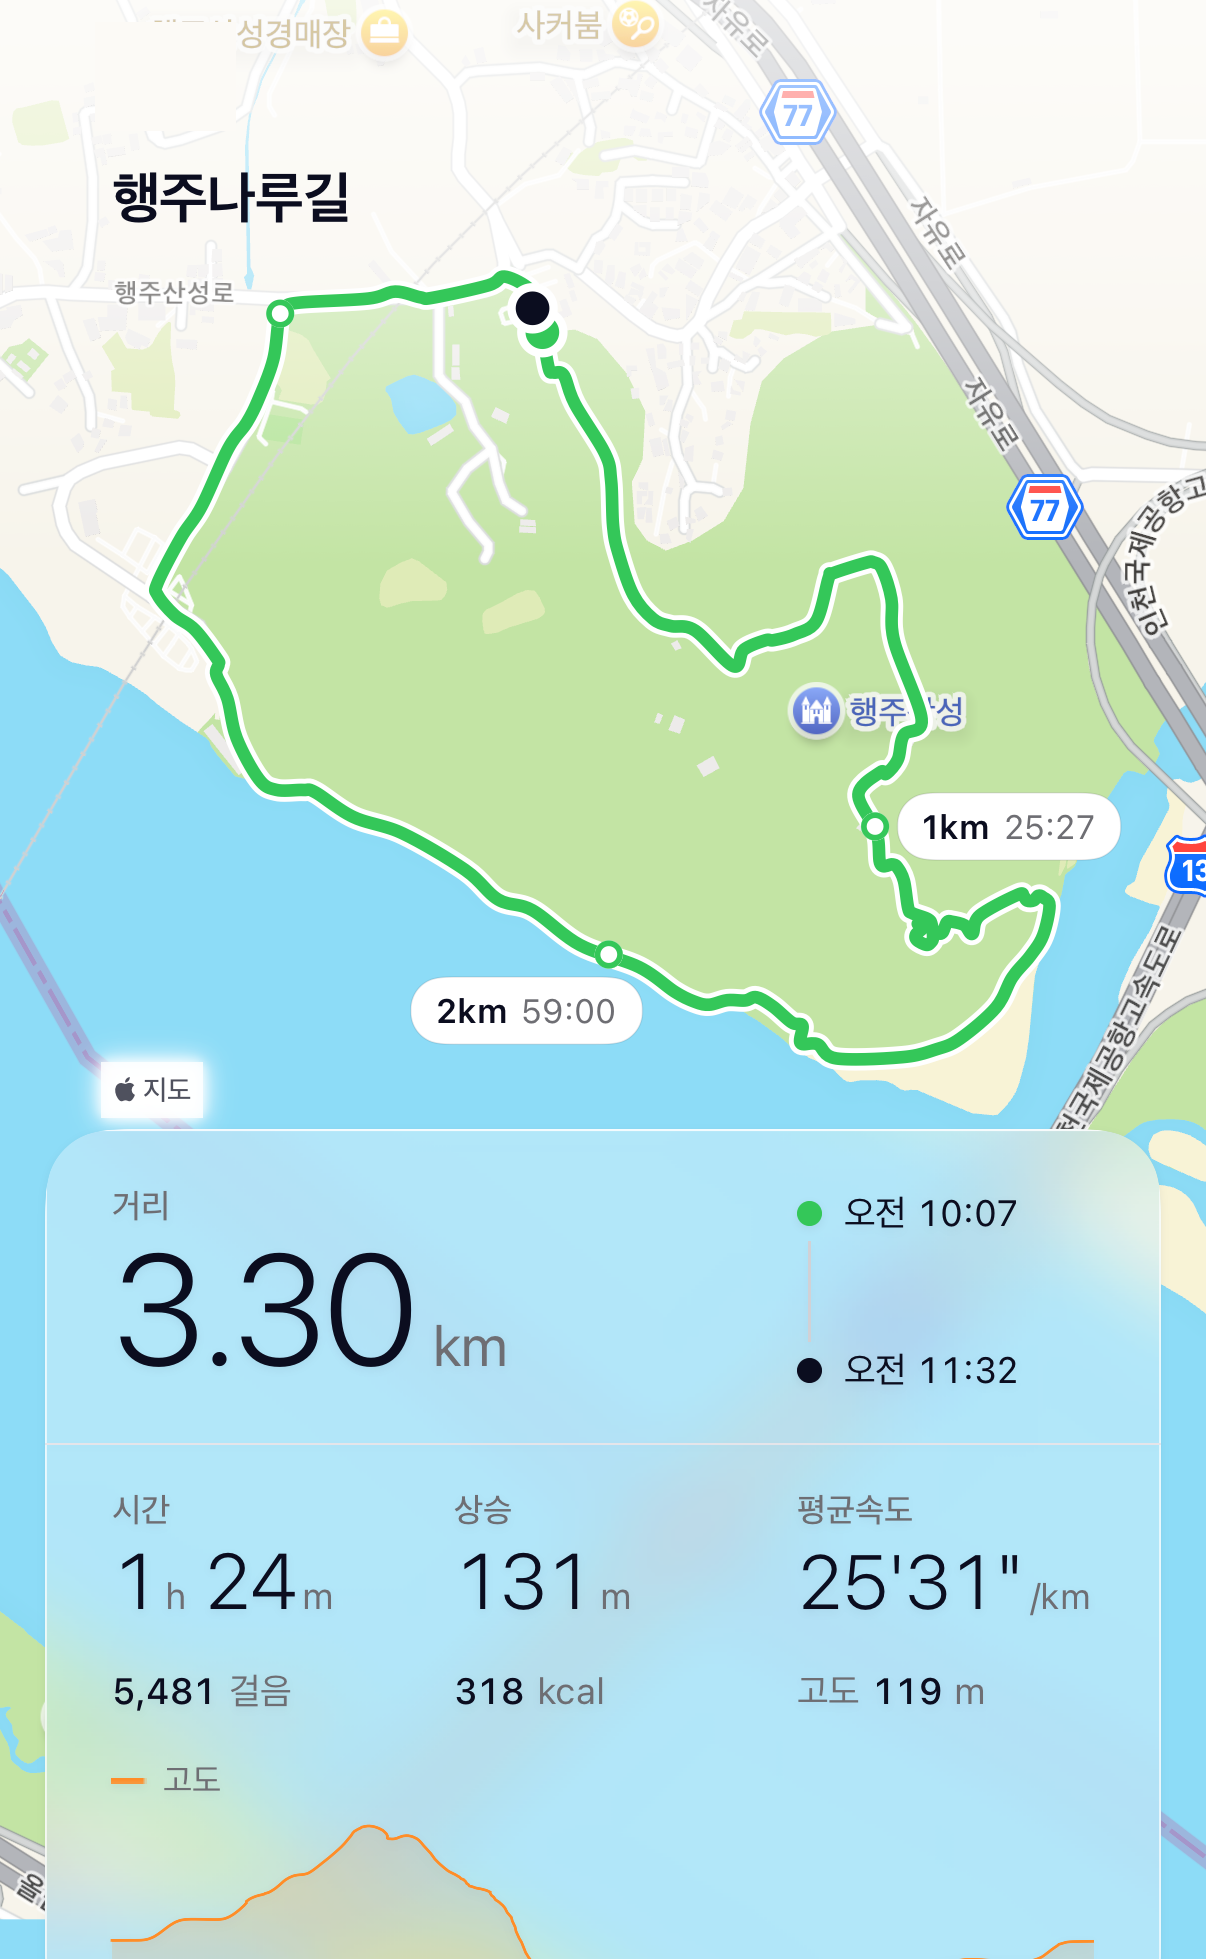
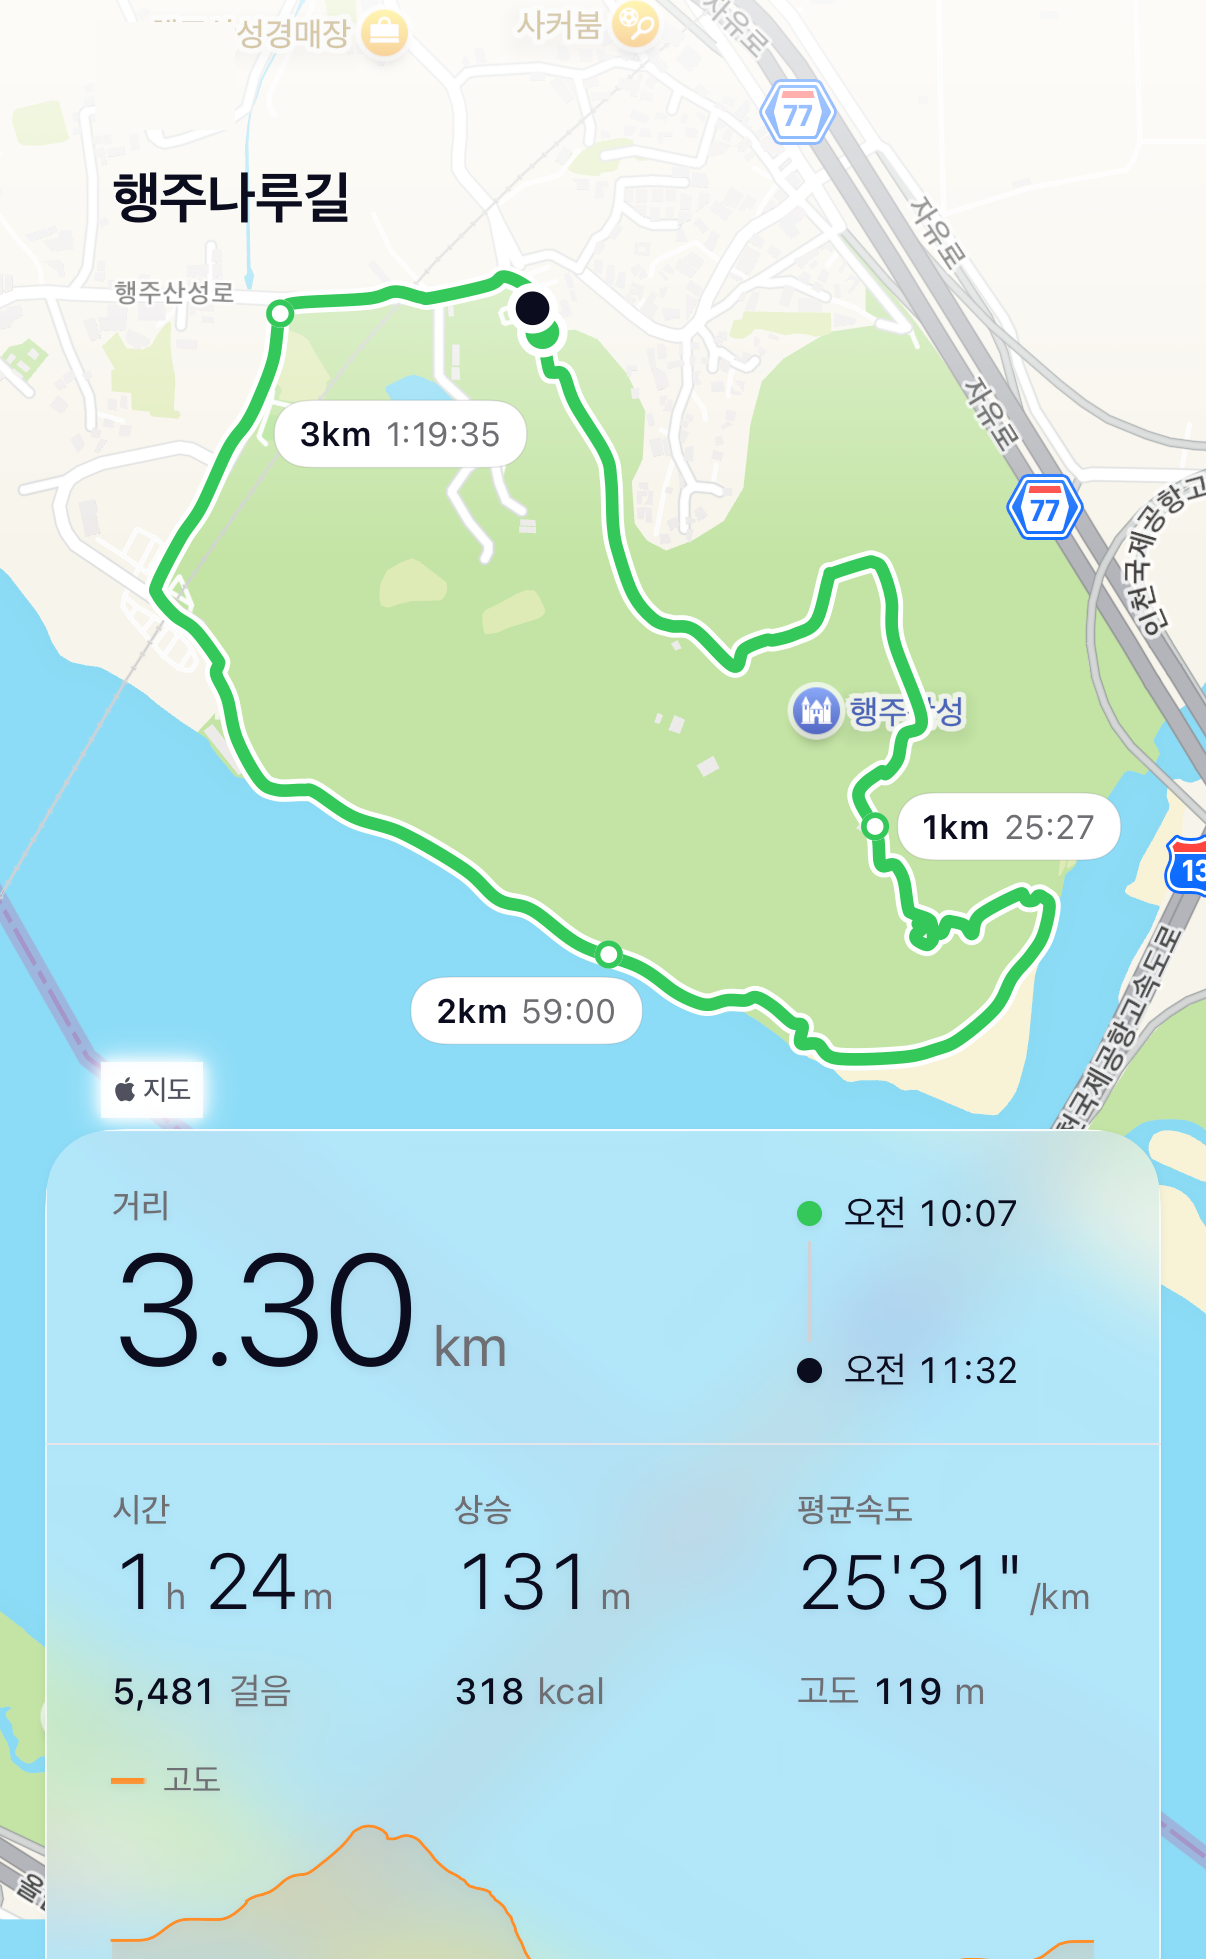
fix(ios): hangju Simple 3km endpoint clearance + seam zoom captures
Drop ownDist+ownMargin against endpoints in placeSummary (Android aloneOk
parity) so 행주나루 3km keeps the L-bend capsule. Refresh pager preview
thumbs; tighten UITest detail zoomIn span for zoom± evidence.

Changed region(s): [[0.2148, 0.1868, 0.4295, 0.2491]]

diff --git a/sansanTests/ShareSummaryTokensTests.swift b/sansanTests/ShareSummaryTokensTests.swift
@@ -372,4 +372,78 @@ final class ShareSummaryTokensTests: XCTestCase {
     func testMaxMemoLengthIs200() {
         XCTAssertEqual(SavedHikingSession.maxMemoLength, 200)
     }
+
+    /// 행주나루길 loop: 3km sits near start/end. Endpoint ownMargin must not drop it
+    /// (Android aloneOk hard-clears endpoints only) — Simple Grey/Color parity.
+    func testHangjunaruPlaceSummaryKeepsThreeKmNearEndpoints() throws {
+        let fixture = URL(fileURLWithPath:
+            "/Users/jeongwook/Documents/sansan-보관/작업복사본-iOS/sansan-ios-detail-label-zoom-e75c/sansan/Resources/uitest-fixtures/hangjunaru.json"
+        )
+        let data = try Data(contentsOf: fixture)
+        let decoder = JSONDecoder()
+        decoder.dateDecodingStrategy = .iso8601
+        let record = try decoder.decode(SavedHikingSession.self, from: data)
+        let coords = record.session.points.map {
+            CLLocationCoordinate2D(latitude: $0.latitude, longitude: $0.longitude)
+        }
+        XCTAssertGreaterThanOrEqual(coords.count, 2)
+
+        let canvas = ShareSummaryTokens.canvasSize(widthPoints: 402, pixelScale: 1)
+        let memoLines = 0
+        let region = HikingMapRegion.fitting(
+            coordinates: coords,
+            viewSize: canvas,
+            insetTop: ShareSummaryTokens.mapTopInset(memoLineCount: memoLines),
+            insetLeft: ShareSummaryTokens.mapRouteSideInset,
+            insetBottom: ShareSummaryTokens.mapBottomInset,
+            insetRight: ShareSummaryTokens.mapRouteSideInset,
+            verticalAlign: .top
+        )
+        func project(_ c: CLLocationCoordinate2D) -> CGPoint {
+            HikingMapRegion.point(for: c, in: region, canvasSize: canvas)
+        }
+
+        let markers = HikingSessionMetrics.kilometerMarkerPlacements(from: record.session.points)
+        let times = HikingSessionMetrics.kilometerArrivalElapsedLabels(
+            from: record.session.points,
+            startedAt: record.session.effectiveStartedAt,
+            segmentBreaks: record.session.segmentBreaks
+        )
+        let requests: [RouteKilometerLabelRequest] = markers.map { marker in
+            RouteKilometerLabelRequest(
+                kilometer: marker.kilometer,
+                distanceLabel: marker.labelText,
+                timeLabel: times[marker.kilometer],
+                routePoint: project(marker.coordinate),
+                preferredLeadingSide: marker.placesLabelOnLeadingSide
+            )
+        }
+        XCTAssertEqual(Set(requests.map(\.kilometer)), Set([1, 2, 3]))
+
+        var endpoints: [CGPoint] = [project(coords[0])]
+        if coords.count > 1 { endpoints.append(project(coords[coords.count - 1])) }
+        let poly = coords.map(project)
+        let contentScale = RouteKilometerMarkerMetrics.labelContentScale(forWidth: canvas.width)
+        let titleBottom = ShareSummaryTokens.headerBottom(memoLineCount: memoLines) * contentScale
+
+        let previousBudget = RouteKilometerLabelPlacement.softTimeBudgetSeconds
+        RouteKilometerLabelPlacement.softTimeBudgetSeconds = 2.0
+        defer { RouteKilometerLabelPlacement.softTimeBudgetSeconds = previousBudget }
+
+        let placed = RouteKilometerLabelPlacement.placeSummary(
+            markers: requests,
+            endpointPoints: endpoints,
+            routePolyline: poly,
+            contentScale: contentScale,
+            imageSize: canvas,
+            sideInset: ShareSummaryTokens.kmLabelBoundsInset * contentScale,
+            pathHalfWidth: ShareSummaryTokens.routeCasing / 2,
+            titleBlockBottom: titleBottom
+        )
+        XCTAssertEqual(
+            Set(placed.shifts.keys),
+            Set([1, 2, 3]),
+            "hangjunaru Simple must keep 3km near loop endpoints; stage=\(placed.stageName) partial=\(placed.partial) keys=\(placed.shifts.keys.sorted())"
+        )
+    }
 }

diff --git a/Shared/Models/RouteKilometerLabelPlacement.swift b/Shared/Models/RouteKilometerLabelPlacement.swift
@@ -647,11 +647,13 @@ enum RouteKilometerLabelPlacement {
             if d < r { return false }
             if m.kilometer != marker.kilometer, d < ownDist + ownMargin { return false }
         }
+        // Endpoints: hard radius only (Android `aloneOk` endpoint dots). Do not apply
+        // ownDist+ownMargin — that gate is for other km items. Loop finishes near the
+        // start (행주나루 3km) otherwise lose every L-bend candidate vs nearby endpoints.
         for ep in context.endpointPoints {
             let r = endpointRadius * scale + clear.pointExtra * scale
             let d = outlineDistance(point: ep, center: cand.center, width: cand.width, height: cand.height)
             if d < r { return false }
-            if d < ownDist + ownMargin { return false }
         }
 
         if !context.routePolyline.isEmpty {

diff --git a/sansan/HikingRecordRouteMapView.swift b/sansan/HikingRecordRouteMapView.swift
@@ -268,12 +268,13 @@ struct HikingRecordRouteMapView: View {
             fitRouteInView(animated: false)
         case .zoomIn:
             // Zoom near the end so mid/late km stay on-screen (TC-01: 3·4km on ~4.28km).
+            // Span tighter than route-fit so zoom± captures actually differ (가마지천 fit ≈ 0.006).
             let centerIndex = min(
                 max(Int(Double(routeCoordinates.count) * 0.72), 0),
                 routeCoordinates.count - 1
             )
             let center = routeCoordinates[centerIndex]
-            let span = MKCoordinateSpan(latitudeDelta: 0.006, longitudeDelta: 0.006)
+            let span = MKCoordinateSpan(latitudeDelta: 0.0028, longitudeDelta: 0.0028)
             mapPosition = .region(MKCoordinateRegion(center: center, span: span))
         }
     }
